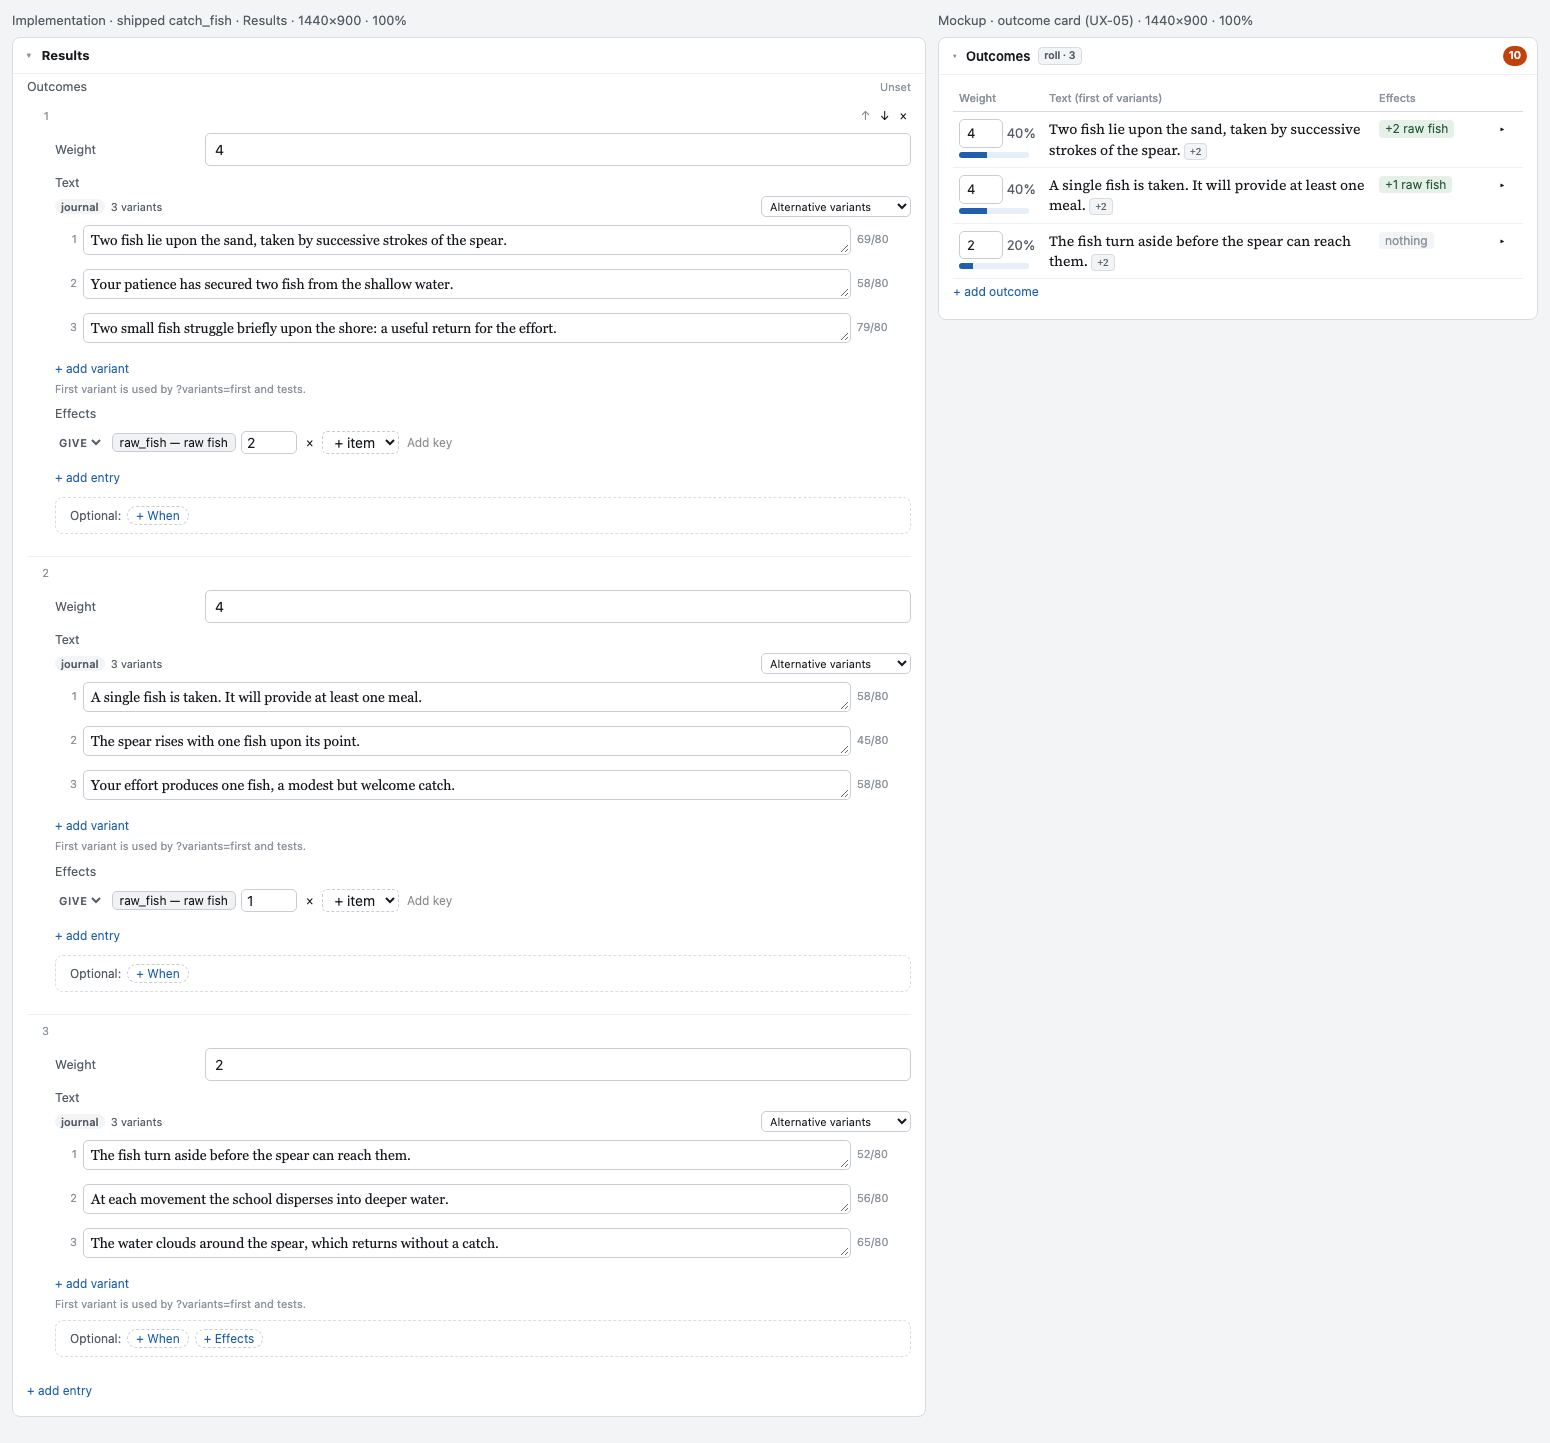
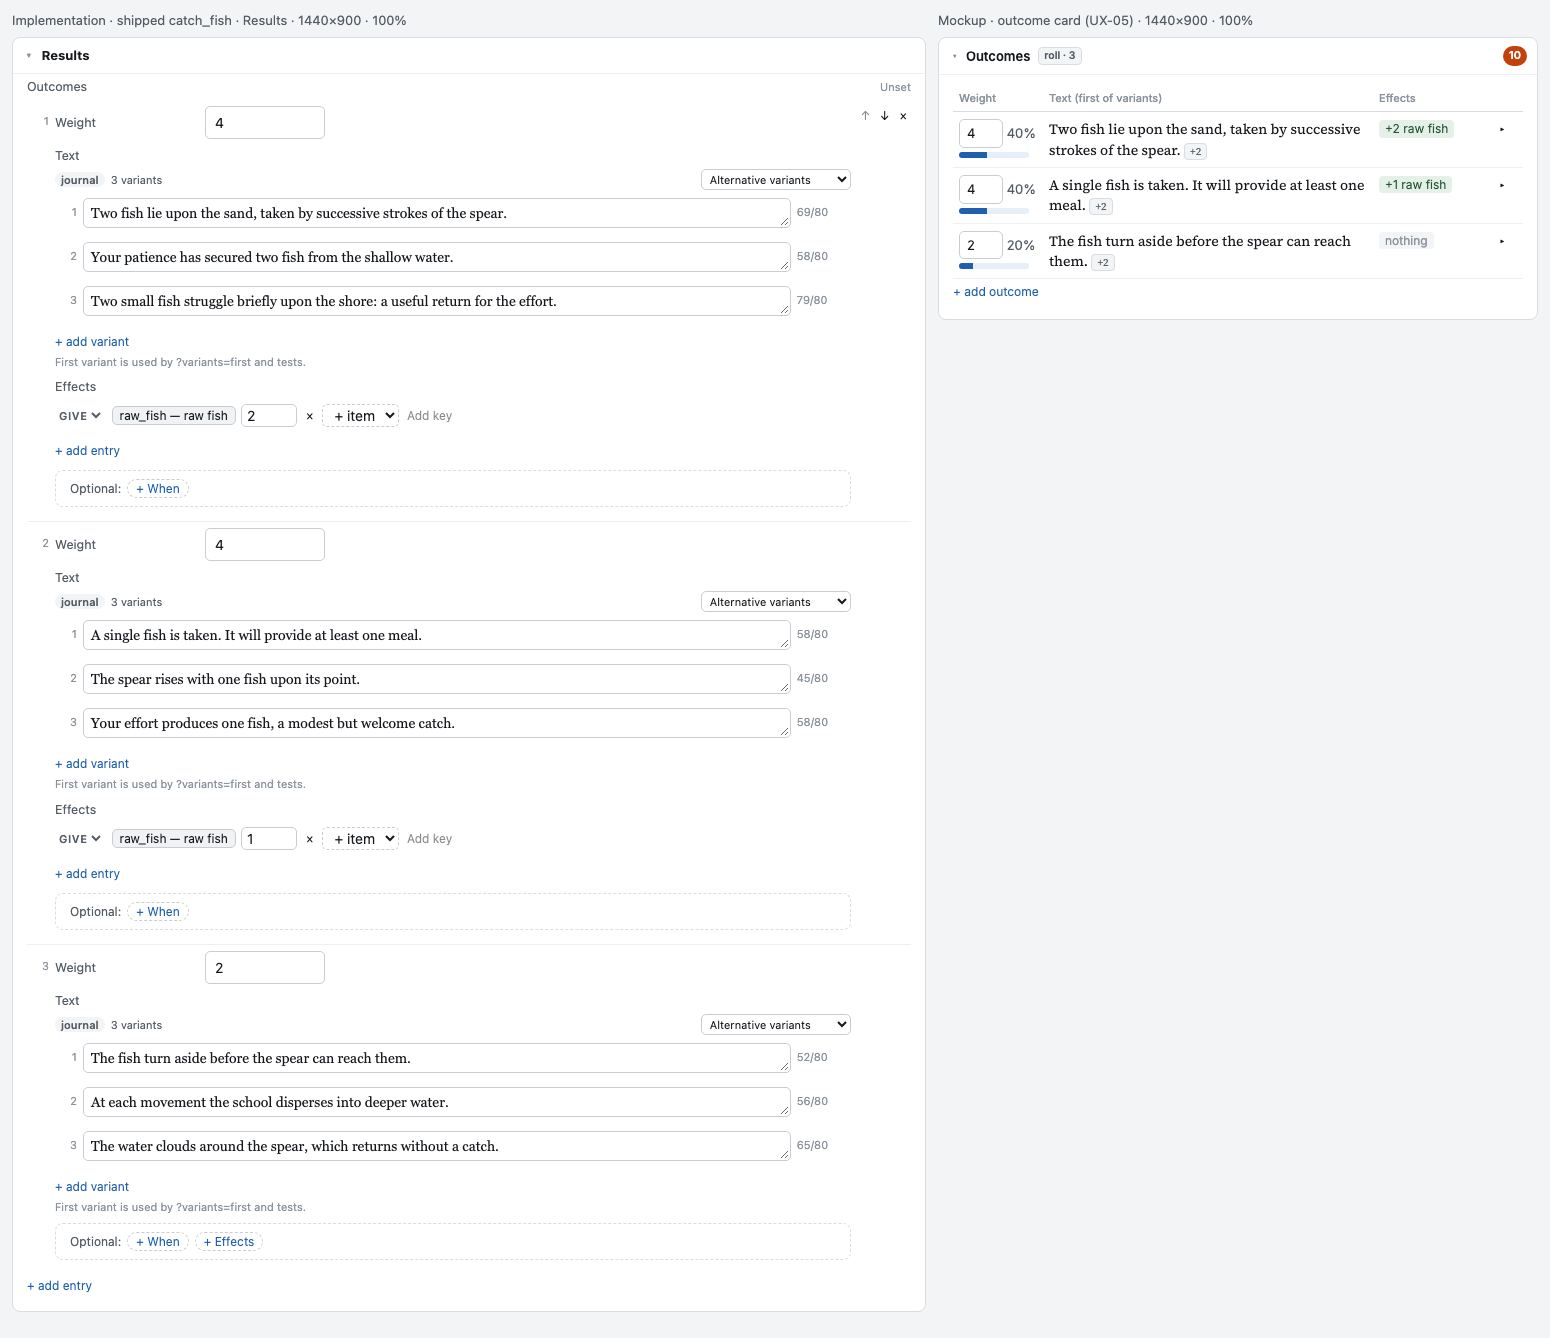
UX-04b review fixes: one-row entries, narrow numbers

diff --git a/src/studio/widgets.tsx b/src/studio/widgets.tsx
@@ -72,7 +72,7 @@ function RuleWidget(props: FieldProps & { type: "condition" | "effect" }) {
     if (!inserted) Object.assign(updated, next);
     props.onChange(updated);
   };
-  const child = (value: unknown, path: string, onChange: (value: unknown) => void, actions?: OrderActions) => <Field {...props} schema={Condition} value={value} path={path} onChange={onChange} skipWidget={false} ruleActions={actions} ruleDepth={depth + 1} depth={0} />;
+  const child = (value: unknown, path: string, onChange: (value: unknown) => void, actions?: OrderActions) => <Field {...props} schema={Condition} value={value} path={path} hideLabel={false} onChange={onChange} skipWidget={false} ruleActions={actions} ruleDepth={depth + 1} depth={0} />;
   const group = props.type === "condition" && selected && ["all", "any", "not"].includes(selected.kind);
   const operator = <select className="rule-operator" aria-label={`${props.path} kind`} value={selected?.kind ?? ""} onChange={event => changeKind(event.target.value)}><option value="" disabled>Unknown</option>{kinds.map(k => <option key={k.kind}>{k.kind}</option>)}</select>;
   const jsonButton = <button type="button" aria-label={`${props.path} JSON view`} aria-pressed={json} onClick={() => setJson(!json)}>{"{ }"}</button>;
@@ -145,7 +145,7 @@ function TextWidget(props: FieldProps) {
   };
   return <section className="text-widget" aria-label={`Text ${props.path}`}>
     <div className="text-header"><span className="badge">{channel}</span><span className="variant-count">{values.length} {values.length === 1 ? "variant" : "variants"}</span><select title="Changing text form may change its memo key." aria-label={`${props.path} text form`} value={mode} onChange={e => switchMode(e.target.value)}><option value="single">Single text</option><option value="variants">Alternative variants</option><option value="explicit">Explicit ID and variants</option></select></div>
-    {mode === "explicit" && <Field {...props} schema={(unwrap(branches(Text)[2]) as z.AnyZodObject).shape.id} value={raw.id} path={pathAt(props.path, "id")} skipWidget={false} onChange={id => props.onChange({ ...raw, id })} />}
+    {mode === "explicit" && <Field {...props} schema={(unwrap(branches(Text)[2]) as z.AnyZodObject).shape.id} value={raw.id} path={pathAt(props.path, "id")} hideLabel={false} skipWidget={false} onChange={id => props.onChange({ ...raw, id })} />}
     {values.map((text, index) => <div className="variant" key={index}><span className="variant-index">{index + 1}</span><VariantInput path={mode === "single" ? props.path : pathAt(mode === "explicit" ? pathAt(props.path, "variants") : props.path, index)} value={text} change={next => update(values.map((v, i) => i === index ? next : v))} />{channel === "journal" && <span className={`variant-counter${text.length > 80 ? " warning" : ""}`} title={text.length > 80 ? "above journal guidance" : undefined}>{text.length}/80{text.length > 80 && <span className="visually-hidden"> — above journal guidance</span>}</span>}{mode !== "single" && <div className="variant-actions"><Order path={pathAt(props.path, index)} index={index} length={values.length} remove={() => update(values.filter((_, i) => i !== index))} move={delta => update(reorder(values, index, delta))} /></div>}</div>)}
     {mode !== "single" && <button className="add-link" type="button" aria-label={`Add alternative to ${props.path}`} onClick={() => update([...values, ""])}>+ add variant</button>}
     <p className="text-hint">First variant is used by ?variants=first and tests.</p>

diff --git a/src/studio/studio.css b/src/studio/studio.css
@@ -92,6 +92,7 @@ textarea { font-family: var(--studio-code); resize: vertical; }
 .field-row-member { display: block; flex: 1 1 100px; min-width: 0; }
 .field-row-member > .field-label { font-size: 11px; color: var(--studio-faint); margin-bottom: 4px; }
 .field-row-member.field-number { flex: 0 1 auto; }
+.field-scalar.field-number > .field-control > input { max-width: 120px; }
 .field-row-member.field-number > .field-control input { width: 64px; }
 .field-unit { font-size: 12px; color: var(--studio-muted); flex: none; }
 .field-locked > .field-control input { font-family: var(--studio-code); background: var(--studio-ground); }
@@ -113,13 +114,14 @@ textarea { font-family: var(--studio-code); resize: vertical; }
 .array-line > .form-field { flex: 1; }
 .form-field.field-unlabelled { display: block; }
 .array-line > .form-field, .record-row > .form-field { display: block; margin: 0; min-width: 0; }
-.array-object-entry { display: grid; grid-template-columns: 22px minmax(0, 1fr); column-gap: 6px; min-width: 0; padding-block: 6px; }
+.array-object-entry { display: grid; grid-template-columns: 22px minmax(0, 1fr) auto; column-gap: 6px; align-items: start; min-width: 0; padding-block: 6px; }
 .array-object-entry + .array-object-entry { border-top: 1px solid #eef0f2; }
-.entry-index { grid-column: 1; grid-row: 1; color: var(--studio-faint); font-size: 11px; padding-top: 3px; text-align: right; }
-.entry-fields { grid-column: 2; grid-row: 2; min-width: 0; }
+.entry-index { grid-column: 1; grid-row: 1; color: var(--studio-faint); font-size: 11px; padding-top: 8px; text-align: right; }
+.entry-fields { grid-column: 2; grid-row: 1; min-width: 0; }
 .entry-fields > .form-field, .array-rule-entry > .form-field { margin: 0; }
-.array-object-entry > .entry-actions { grid-column: 2; grid-row: 1; justify-self: end; }
+.array-object-entry > .entry-actions { grid-column: 3; grid-row: 1; justify-self: end; }
 .entry-fields > .form-field > .field-control > .outcome-widget { border: 0; padding: 0; margin: 0; }
+.entry-fields > .form-field > .field-control > .outcome-widget > .form-field { margin: 0; }
 .record-row { display: grid; grid-template-columns: auto minmax(0, 1fr) auto; align-items: center; gap: 8px; min-width: 0; }
 .record-key { font-family: var(--studio-code); font-size: 11px; overflow-wrap: anywhere; min-width: 0; }
 .record-reference { font-family: var(--studio-font); background: #f1f2f4; border-radius: 5px; padding: 1px 7px; }
@@ -134,6 +136,7 @@ textarea { font-family: var(--studio-code); resize: vertical; }
 .form-field:hover > .field-label > .field-unset, .form-field:focus-within > .field-label > .field-unset { opacity: 1; }
 @media (max-width: 760px) {
   .entry-actions, .field-label > .field-unset { opacity: 1; }
+  .array-object-entry > .entry-index { padding-top: 1px; }
   .record-row { grid-template-columns: minmax(0, 1fr) auto; }
   .record-row > .record-key { grid-column: 1; }
   .record-row > .form-field { grid-column: 1; grid-row: 2; }

diff --git a/src/studio/form.tsx b/src/studio/form.tsx
@@ -224,7 +224,7 @@ function RecordField(props: FieldProps) {
     <Field {...props} hideLabel={!props.inline} ruleActions={undefined} ruleFields={undefined} inline={props.inline} presentation={{ schema: node.valueSchema, path: [props.path, name].filter(Boolean).join("."), hideCaption: Boolean(props.inline), inline: props.inline }} schema={node.valueSchema} path={[props.path, name].filter(Boolean).join(".")} value={value} depth={(props.depth ?? 0) + 1} onChange={(next) => props.onChange({ ...raw, [name]: next })} />
     <span className={props.inline ? undefined : "entry-actions"}><button type="button" aria-label={`Remove ${props.path}.${name}`} onClick={() => { const updated = { ...raw }; delete updated[name]; props.onChange(updated); }}>×</button></span>
   </div>)}<div className="record-add">{kind ? <select aria-label={`${props.path} new key`} value={key} onChange={(event) => setKey(event.target.value)}><option value="">{props.inline ? "+ item" : "Choose a reference…"}</option>{options.filter((option) => !(option in raw)).map((option) => <option key={option} value={option}>{referenceLabel(kind!, option, props.documents)}</option>)}</select> : <input aria-label={`${props.path} new key`} value={key} onChange={(event) => setKey(event.target.value)} placeholder="new key" />}
-    <button className={props.inline ? undefined : "add-link"} type="button" disabled={!valid} onClick={() => { props.onChange({ ...raw, [key]: initialValue(node.valueSchema) }); setKey(""); }}>Add key</button></div></div>;
+    <button className={props.inline ? undefined : "add-link"} aria-label="Add key" type="button" disabled={!valid} onClick={() => { props.onChange({ ...raw, [key]: initialValue(node.valueSchema) }); setKey(""); }}>{props.inline ? "Add key" : "+ add key"}</button></div></div>;
 }
 
 registerWidgets(widgetRegistry);

diff --git a/tests/studio/widgets.test.ts b/tests/studio/widgets.test.ts
@@ -417,7 +417,7 @@ it("renders generic records with key tokens, values and named remove actions", (
   expect(html).toContain('aria-label="amounts.first" type="number"');
   expect(html).toContain('aria-label="Remove amounts.first">×</button>');
   expect(html).toContain('aria-label="amounts new key"');
-  expect(html).toContain('>Add key</button>');
+  expect(html).toContain('aria-label="Add key" type="button" disabled="">+ add key</button>');
   expect(html).not.toContain("array-entry");
   const reference = render((unwrap(unionKinds(Effect).find(k => k.kind === "give")!.schema) as z.AnyZodObject).shape.give, { raw_fish: 2 }, "give");
   expect(reference).toContain('class="record-key record-reference">raw_fish — raw fish</span>');
@@ -433,4 +433,12 @@ it("places union kinds in their label line and labels a quest when trigger exact
   expect(labelLine).toContain('aria-label="trigger kind"');
   expect(html).toContain('aria-label="trigger.when kind"');
   expect(render(Quest.shape.trigger, { when: { item: "knife" } }, "")).toContain('aria-label="root kind"');
+});
+
+it("keeps the ID label inside explicit Text array elements while hiding the element label", () => {
+  const html = render(z.array(Text), [{ id: "named", variants: ["One."] }], "texts");
+  expect(html).toContain('data-field="texts.0.id"');
+  expect(html).toContain('>ID</label>');
+  expect(html).toContain('aria-label="texts.0.id"');
+  expect(html).not.toContain('>0</label>');
 });

diff --git a/docs/mockups/studio/README.md b/docs/mockups/studio/README.md
@@ -265,16 +265,23 @@ Read-only shipped catch_fish measurement at 1440×900 with all four cards open:
 Specified by the UX-04b prompt and approved plan: generic arrays lose entry boxes and left
 borders. Scalar/reference/enum entries have no index label; object entries have a faint 11 px,
 1-based index in a 22 px gutter, normal inspector fields and #EEF0F2 dividers. Entry toolbars
-show ↑ ↓ × at the line end or block's top right, with “+ add entry” below. Rule array children
+show ↑ ↓ × at the line end or block's top right, with “+ add entry” below. After review,
+object entries use one grid row with three columns (`22px | minmax(0, 1fr) | auto`): the
+index aligns beside the first field label and actions occupy the right column, including at
+≤760 px. Scalar number inputs are capped at 120 px; row members retain 64 px and inline rule
+numbers retain 56 px. Rule array children
 retain their UX-04 toolbar with no duplicate actions. Non-inline records show a reference-label
-or mono key token, value and ×; inline item-amount records retain their appearance.
+or mono key token, value and ×, with a “+ add key” link retaining the accessible name
+`Add key`; inline item-amount records retain their appearance and “Add key” text.
 
 Union selectors move into the field label line with a faint caption; same-path branch fields
 omit their own label line, so a quest's Trigger label appears once. Array element Fields also
 omit their label lines, leaving only the object's gutter number. Control accessible names stay
 unchanged. Unset becomes faint ghost text on field hover/focus, including row-member captions;
 hovering nested fields may reveal their parent's Unset, as approved. Toolbars and Unset stay
-visible at ≤760 px and without hover. Rendering does not edit content.
+visible at ≤760 px and without hover. Widgets reset label suppression for Fields at different
+paths, so an explicit Text ID retains its label inside an array element. Same-path object
+wrappers retain label suppression. Rendering does not edit content.
 
 Specified differences from the static mockup: outcomes remain fully editable numbered blocks,
 not the UX-05 weight/odds table. Results and Item actions keep UX-03 card titles and UX-02
@@ -290,14 +297,17 @@ Evidence in [ux-04b/](ux-04b/): [Results beside mockup](ux-04b/catch_fish-compar
 [Item actions beside mockup](ux-04b/water_can-comparison.jpg),
 [390 px Results](ux-04b/catch_fish-390.jpg), [390 px Item actions](ux-04b/water_can-390.jpg).
 The implementation uses shipped content read-only; browser tests use the isolated frozen pack.
-Both desktop sides were captured at 1440×900, device scale 1, cropped at native size and placed
+The comparison images were refreshed for the review fixes. Both desktop sides were captured
+at 1440×900, device scale 1, cropped at native size and placed
 beside each other without resizing. Both phone captures have
-`document.documentElement.scrollWidth === 390`. All four JPEGs are ≤200 KB.
+`document.documentElement.scrollWidth === 390`. The revised three-column phone layout was
+rechecked at 390 px with visible actions and no horizontal overflow; the two original phone
+images show the pre-review layout. All four JPEGs are ≤200 KB.
 
 Shipped-content measurements at 1440×900 with every card open, using
 `.editor-fields.scrollHeight`:
 
-| Document | UX-04 baseline (`15d8c23`) | UX-04b | Reduction |
-| --- | ---: | ---: | ---: |
-| `activities/catch_fish.json` | 2,810 px | 2,324 px | 486 px / 17.3% |
-| `items/water_can.json` | 2,644 px | 2,370 px | 274 px / 10.4% |
+| Document | UX-04 baseline (`15d8c23`) | UX-04b before review | UX-04b reviewed | Reduction from UX-04 |
+| --- | ---: | ---: | ---: | ---: |
+| `activities/catch_fish.json` | 2,810 px | 2,324 px | 2,219 px | 591 px / 21.0% |
+| `items/water_can.json` | 2,644 px | 2,370 px | 2,332 px | 312 px / 11.8% |
